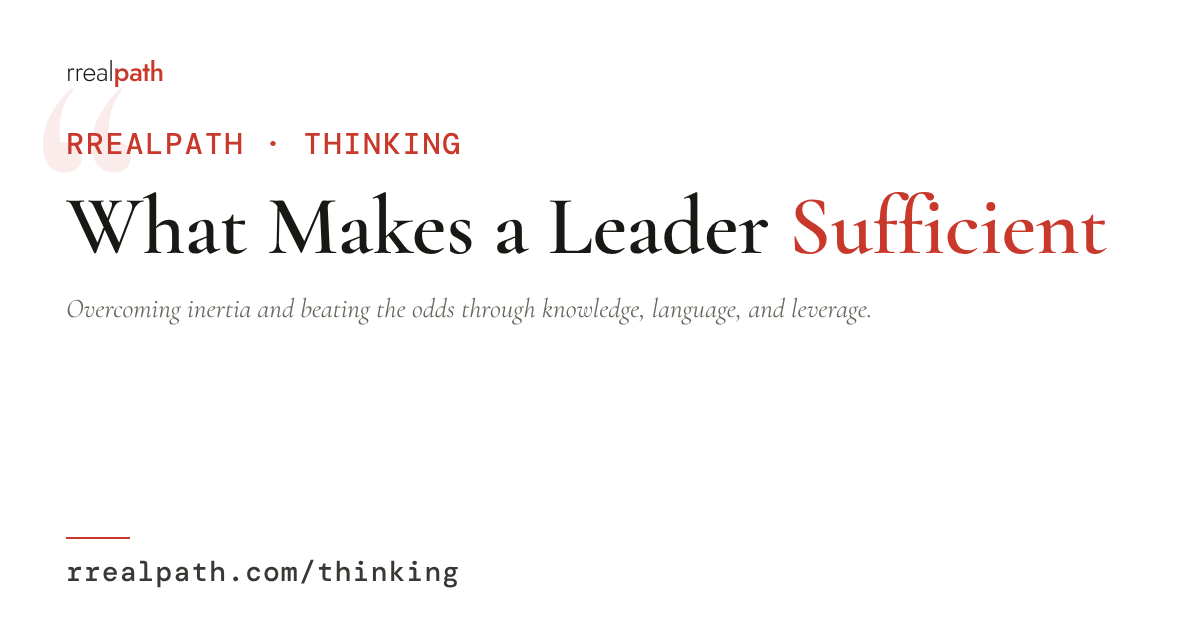
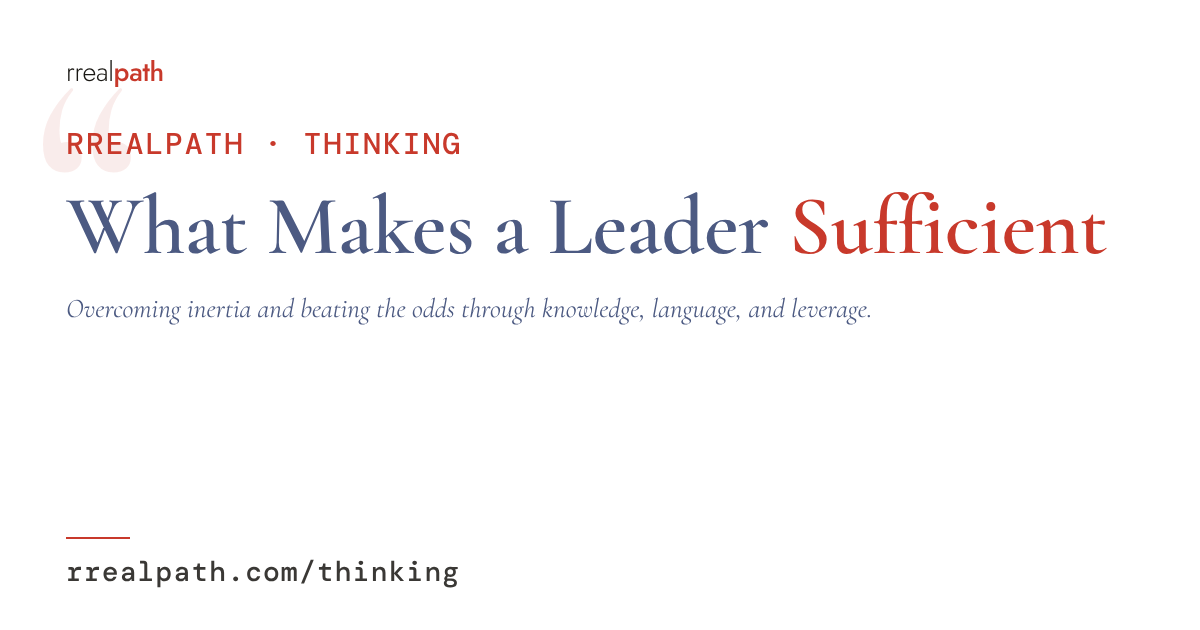
Intelligence — October 2026: article page + 5 figures + share card; Thinking row; sitemap; house bullet-list rule in style.css; 14 Steel Blue share cards (order 52)
Order 71 full-site preview. Nothing merges without Ren's OK.

diff --git a/intelligence-october-2026.html b/intelligence-october-2026.html
@@ -1,0 +1,316 @@
+<!DOCTYPE html>
+<html lang="en">
+<head>
+  <meta charset="UTF-8" />
+  <meta name="viewport" content="width=device-width, initial-scale=1.0" />
+  <title>Intelligence — October 2026 — rrealpath</title>
+  <meta name="description" content="Analysis of AI Adoption — What the headline numbers don’t reveal. Measured by how much of the work AI could do that it actually does, we are, in fact, in the Early Adopter stage." />
+  <meta name="author" content="René Anant Feddersen" />
+  <meta property="article:published_time" content="2026-10-28T09:00:00+07:00" />
+  <meta property="og:type" content="article" />
+  <meta property="og:site_name" content="rrealpath" />
+  <meta property="og:title" content="Intelligence — October 2026: Analysis of AI Adoption — What the headline numbers don’t reveal" />
+  <meta property="og:description" content="Analysis of AI Adoption — What the headline numbers don’t reveal. Measured by how much of the work AI could do that it actually does, we are, in fact, in the Early Adopter stage." />
+  <meta property="og:url" content="https://rrealpath.com/intelligence-october-2026" />
+  <meta property="og:image" content="https://rrealpath.com/images/intelligence-october-2026-og.png" />
+  <meta property="og:image:width" content="1200" />
+  <meta property="og:image:height" content="630" />
+  <meta property="og:image:alt" content="Analysis of AI Adoption — What the headline numbers don&#39;t reveal. Intelligence — October 2026, with Rogers&#39; adoption curve." />
+  <meta name="twitter:card" content="summary_large_image" />
+  <meta name="twitter:image" content="https://rrealpath.com/images/intelligence-october-2026-og.png" />
+  <meta name="twitter:title" content="Intelligence — October 2026: Analysis of AI Adoption — What the headline numbers don’t reveal" />
+  <meta name="twitter:description" content="Analysis of AI Adoption — What the headline numbers don’t reveal. Measured by how much of the work AI could do that it actually does, we are, in fact, in the Early Adopter stage." />
+  <link rel="canonical" href="https://rrealpath.com/intelligence-october-2026" />
+  <link rel="icon" href="/favicon.ico" sizes="any" />
+  <link rel="icon" href="/favicon-32.png" type="image/png" sizes="32x32" />
+  <link rel="apple-touch-icon" href="/apple-touch-icon.png" />
+  <link rel="stylesheet" href="css/style.css" />
+  <!-- Google Analytics -->
+  <script>
+    /* GA4 — production host only; ?internal=1 marks this device as own traffic (?internal=0 clears) */
+    window.dataLayer = window.dataLayer || [];
+    function gtag(){dataLayer.push(arguments);}
+    (function(){
+      var h = location.hostname;
+      if (h !== 'rrealpath.com' && h !== 'www.rrealpath.com') return;
+      var internal = false;
+      try {
+        var q = new URLSearchParams(location.search).get('internal');
+        if (q === '1') { localStorage.setItem('rr_internal', '1'); document.cookie = 'rr_internal=1; max-age=63072000; path=/; SameSite=Lax'; }
+        if (q === '0') { localStorage.removeItem('rr_internal'); document.cookie = 'rr_internal=; max-age=0; path=/; SameSite=Lax'; }
+        internal = localStorage.getItem('rr_internal') === '1' || /(?:^|; )rr_internal=1/.test(document.cookie);
+      } catch (e) { internal = /(?:^|; )rr_internal=1/.test(document.cookie); }
+      var s = document.createElement('script'); s.async = true;
+      s.src = 'https://www.googletagmanager.com/gtag/js?id=G-RN326XK8ME';
+      document.head.appendChild(s);
+      gtag('js', new Date());
+      gtag('config', 'G-RN326XK8ME', internal ? { traffic_type: 'internal' } : {});
+    })();
+  </script>
+  <style>
+    .article-wrap { max-width: var(--max-wide); padding: 5rem 3rem 6rem; }
+    .article-meta { display: flex; align-items: center; gap: 1.2rem; margin-bottom: 2rem; }
+    .article-meta-number { font-family: var(--font-mono); font-size: 0.65rem; letter-spacing: 0.15em; color: var(--red); }
+    .article-meta-sep { width: 24px; height: 0.5px; background: var(--rule); }
+    .article-meta-date { font-family: var(--font-mono); font-size: 0.65rem; letter-spacing: 0.15em; text-transform: uppercase; color: var(--ink-faint); }
+    .article-title { font-family: var(--font-serif); font-weight: 600; font-size: clamp(2.4rem, 5vw, 4.2rem); line-height: 1.06; color: var(--blue); margin-bottom: 1.2rem; max-width: 820px; }
+    .article-intro { font-family: var(--font-serif); font-size: 1.2rem; font-weight: 300; font-style: italic; color: var(--ink-muted); line-height: 1.55; max-width: 620px; margin-bottom: 2.5rem; }
+    .article-lead { max-width: 620px; margin: 0 0 3rem; padding-bottom: 3rem; border-bottom: 1px solid var(--rule); }
+    .article-lead img { width: 100%; height: auto; display: block; }
+    .article-lead-caption { display: flex; align-items: center; gap: 0.75rem; margin-top: 0.75rem; }
+    .article-lead-bar { width: 2px; height: 0.9em; background: var(--red); flex-shrink: 0; }
+    .article-lead-name { font-family: var(--font-serif); font-style: italic; font-size: 0.9rem; color: var(--ink-muted); }
+    .article-lead-credit { font-family: var(--font-mono); font-size: 0.6rem; letter-spacing: 0.1em; text-transform: uppercase; color: var(--ink-faint); }
+    .article-body { max-width: 620px; }
+    .article-body p { font-size: 1rem; color: var(--ink-mid); line-height: 1.9; margin-bottom: 1.4rem; }
+    .article-body h2 { font-family: var(--font-serif); font-size: 1.6rem; font-weight: 600; color: var(--blue); margin-top: 3rem; margin-bottom: 1rem; line-height: 1.2; }
+    .article-rule { border: none; border-top: 1px solid var(--rule); margin: 3rem 0; }
+    .article-crosslink { font-family: var(--font-mono); font-size: 0.7rem; letter-spacing: 0.1em; text-transform: uppercase; margin: 1.5rem 0 0; }
+    .article-crosslink a { color: var(--red); text-decoration: none; }
+    .article-crosslink a:hover { color: var(--ink); }
+    .article-back { font-family: var(--font-mono); font-size: 0.65rem; letter-spacing: 0.15em; text-transform: uppercase; color: var(--ink-faint); text-decoration: none; display: inline-flex; align-items: center; gap: 0.5rem; margin-bottom: 3rem; transition: color 0.2s; }
+    .article-back:hover { color: var(--ink); }
+    /* in-body figures */
+    .article-figure { max-width: 620px; margin: 2.5rem 0; }
+    .article-figure img { width: 100%; height: auto; display: block; }
+    .article-point strong { display: block; font-weight: 600; color: var(--ink); margin-bottom: 0.2rem; }
+    .article-cta { max-width: 620px; margin-top: 3rem; padding-top: 2rem; border-top: 1px solid var(--rule); }
+    .article-cta p { font-family: var(--font-serif); font-weight: 300; font-style: italic; font-size: 1.25rem; color: var(--ink-mid); line-height: 1.5; margin: 0 0 1.4rem; }
+    .article-share { max-width: 620px; margin-top: 3rem; padding-top: 2rem; border-top: 1px solid var(--rule); display: flex; align-items: center; gap: 1.5rem; flex-wrap: wrap; }
+    .article-share-label { font-family: var(--font-mono); font-size: 0.65rem; letter-spacing: 0.15em; text-transform: uppercase; color: var(--ink-faint); }
+    .article-share-links { display: flex; align-items: center; gap: 1.2rem; }
+    .article-share-links a, .article-share-copy { font-family: var(--font-mono); font-size: 0.65rem; letter-spacing: 0.12em; text-transform: uppercase; color: var(--ink-muted); text-decoration: none; background: none; border: none; cursor: pointer; padding: 0; transition: color 0.2s; }
+    .article-share-links a:hover, .article-share-copy:hover { color: var(--ink); }
+    .article-share-sep { color: var(--rule); font-size: 0.7rem; }
+    @media (max-width: 768px) { .article-wrap { padding: 4rem 1.5rem 4rem; } }
+  </style>
+</head>
+<body>
+
+<nav>
+  <a href="/" class="nav-logo">rreal<span>path</span></a>
+  <ul class="nav-links">
+    <li><a href="/thinking">Thinking</a></li>
+    <li><a href="/resume">Resume</a></li>
+    <li><a href="/coaching">Coaching</a></li>
+    <li><a href="/connect">Connect</a></li>
+  </ul>
+  <button class="nav-toggle" id="nav-toggle" aria-label="Open menu" aria-expanded="false">
+    <span></span><span></span><span></span>
+  </button>
+</nav>
+
+<div class="nav-drawer" id="nav-drawer">
+  <a href="/thinking">Thinking</a>
+  <a href="/resume">Resume</a>
+  <a href="/coaching">Coaching</a>
+  <a href="/connect">Connect</a>
+</div>
+
+<main class="page">
+  <div class="article-wrap">
+
+    <a href="/thinking" class="article-back">&larr; Thinking</a>
+
+    <div class="article-meta">
+      <span class="article-meta-number">Intelligence</span>
+      <div class="article-meta-sep"></div>
+      <span class="article-meta-date">28 October 2026</span>
+    </div>
+
+    <h1 class="article-title">Intelligence &mdash; October 2026</h1>
+    <p class="article-intro">Analysis of AI Adoption &mdash; What the headline numbers don&rsquo;t reveal</p>
+
+    <div class="article-body">
+
+      <p>What has changed since June? The models are improving. The way people are adopting AI is continuing to gain in form and clarity.</p>
+
+      <p>The <a href="/article-06">June article</a> with a similar title was initially written as a standalone. The decision was then made to conduct ongoing research and to share insights on a periodic basis on AI adoption: to track adoption through a structured and ongoing narrative, and to pursue an evidence-based understanding of its real value.</p>
+
+      <p>Adoption data tells us who is using AI, how frequently, and what for. To give real context to this data, we must delve into the what for; only through understanding the business value of AI’s use cases can we assess whether adoption has measurable value.</p>
+
+      <p>If we count AI adoption as anyone who has ever used AI, we may be misrepresenting the facts. Using an AI model in a work-related way once or twice a week is different from using it daily for a substantial amount of time.</p>
+
+      <p>Understanding time savings and benefits (speed, quality, and costs of outcomes) of AI use cases is also key to grasping the true value of adoption; applications that are considered successful must deliver substantial and lasting benefits to be sustainable.</p>
+
+      <p>The focus of this article is to demonstrate the reality of adoption. Contrary to the widely held understanding that we are in the Late Majority stage (&gt;50% adoption), measured by how much of the work AI could do that it actually does, we are, in fact, in the Early Adopter stage (&lt;16% adoption).</p>
+
+      <figure class="article-lead">
+        <img src="images/intelligence-october-2026-01.png" width="1400" height="1120" alt="Bell curve of Rogers’ five adopter groups — Innovators 2.5%, Early Adopters 13.5%, Early Majority 34%, Late Majority 34%, Laggards 16% — Innovators and Early Adopters shaded red, the other three groups Steel Blue." />
+        <figcaption class="article-lead-caption"><div class="article-lead-bar"></div><span class="article-lead-name">Rogers’ adoption curve</span><span class="article-lead-credit">rrealpath original graphic</span></figcaption>
+      </figure>
+
+      <h2>#1 What is emerging</h2>
+
+      <p>In the June article, we made the following opening observation about AI:</p>
+
+      <p>“The message the name sends is that human and artificial intelligence are interchangeable on a one-for-one basis. A machine is traditionally defined and named by the function it performs; an LLM mimics the sphere of activity that is based in language, and interacts through language, creating the appearance of intelligence.”</p>
+
+      <p>We then concluded with the following statement:</p>
+
+      <p>“The present opportunity is the possibility to harness a machine that augments a vast array of capabilities, and that has the flexibility of being many things to many people, of increasing our analytical and productive capabilities, of refocusing our limited resources –time, attention and energy–, and of tackling projects and opportunities that were previously out of reach.”</p>
+
+      <p>If we give credence to these two statements — both statements are grounded in fact — we can further state the following: The gap between how AI is named and how it functions creates a fundamental paradox: we discuss AI through the lens of substitution, but we experience it through the lens of augmentation.</p>
+
+      <p>Therefore:</p>
+
+      <p>The way to gauge AI’s value is to start using it, and to experience augmentation in the context of one’s own work. There are no patterns or rules about how this is achieved, and there is no expert third party that will do this for us. Gathering examples through our own experience and learning from the experiences of others is the measure.</p>
+
+      <p>What is becoming overwhelmingly clear is that AI’s value is in being that flexible, widely informed resource that amplifies human focus and effort; its core functional attribute is the flexible conversational interface that moulds structure and meaning out of any prompt, translating human intent into analytical leverage.</p>
+
+      <p>AI adoption means gaining analytical leverage:</p>
+
+      <ol>
+        <li>Improving results of analysis by expanding reach (accessing more data and knowledge that inform the decisions we need to make)</li>
+        <li>Freeing up time for analysis by drastically reducing data collection, preparation and processing time</li>
+        <li>Freeing up time for analysis by accelerating the completion of administrative tasks</li>
+        <li>Writing and maintaining code and handling complex engineering tasks</li>
+        <li>Creation and experimentation in the areas of art, literature, history, education, science, sociology, health, psychology, and more</li>
+        <li>Faster roadmaps to improving decisions through automation</li>
+        <li>Faster roadmaps to automation of business processes</li>
+      </ol>
+
+      <p>All of the above represent real adoption scenarios. Anyone in possession of a computer and internet connection can try to use AI for any of the above.</p>
+
+      <h2>#2 The numbers</h2>
+
+      <p>Everett Rogers’ ‘diffusion of innovations curve’ (<em>Diffusion of Innovations</em>, 1962; 5th edition 2003) is based on “a decision to make full use of an innovation as the best course of action available.” Trying an idea is one step on the way, not adoption itself.</p>
+
+      <p>Rogers further defined diffusion: “the process in which an innovation is communicated through certain channels over time among the members of a social system.” A new idea spreads through four elements: the innovation itself, the channels that carry word of it, time, and the social system it moves through.</p>
+
+      <p>The present level of adoption, as reflected by anyone whose work or life has touchpoints with AI (for any marginal amount of time), including accessing AI through platform-embedded features (i.e. Gemini in Google Workspace, Copilot in Microsoft), is shown in the next graph.</p>
+
+      <figure class="article-figure">
+        <img src="images/intelligence-october-2026-02.png" width="1400" height="1468" alt="Line chart titled “By the accepted measure, AI is in the Late Majority stage”, 2023–2026, US. US adults aged 18–64 who have used generative AI: 45% (Aug 2024) to 62% (May 2026). US employees using AI at work a few times a year or more: 21% (May 2023) to 52% (May 2026). Both lines cross a blue dashed 50% line (Rogers’ Late Majority above, Early Majority below); a red dashed 16% line marks Innovators and Early Adopters below it." loading="lazy" />
+        <figcaption class="article-lead-caption"><div class="article-lead-bar"></div><span class="article-lead-name">US only. More than half of US adults aged 18–64 (St. Louis Fed) and of US employees (Gallup) have used AI</span><span class="article-lead-credit">rrealpath original graphic</span></figcaption>
+      </figure>
+
+      <p>To take Rogers’ analogy further, we need to understand the types of jobs that can make full use of AI as the best course of available action. Research that is focused on substitution (versus augmentation) is defining these jobs as AI-exposed. The next table shows the percentage of the US workforce for which AI’s assumed present &amp; future capabilities are a complement (augmentation) or match (substitution).</p>
+
+      <p><em>Agents, robots, and us</em> (McKinsey Global Institute, Nov 2025) estimates how much of today’s paid US work hours technology already demonstrated could, in theory, take over, by breaking about 800 occupations into their tasks. “Agents” means any software that automates desk work, AI included, and “robots” means machines that do physical work. In its cautious scenario, agents could do 44% of US work hours and robots 13%; the other 43% only people can do. McKinsey stresses that this is technical potential, “not a forecast of job losses”. It assumes about 27% of hours will be automated by 2030, and McKinsey sells AI consulting, so it has an interest in these findings.</p>
+
+      <figure class="article-figure">
+        <img src="images/intelligence-october-2026-03.png" width="1400" height="1278" alt="Table: share of all US work hours machines could do. Agents (software and AI doing desk work) 44%, robots 13%, not automatable 43%. Source: McKinsey Global Institute, Agents, robots, and us, Nov 2025." loading="lazy" />
+        <figcaption class="article-lead-caption"><div class="article-lead-bar"></div><span class="article-lead-name">McKinsey’s estimate of how much work US agents, robots and humans can do in theory</span><span class="article-lead-credit">rrealpath original graphic</span></figcaption>
+      </figure>
+
+      <p>The following 2 sources further clarify our understanding of the adoption picture. They have been chosen from among many similar examples:</p>
+
+      <p><strong>United States: St. Louis Fed survey, 2025–2026</strong> (quarterly survey of US adults; its task data comes from nearly 14,000 workers)</p>
+
+      <ul>
+        <li>In Q2 2026, 39% of employed adults aged 18–64 used AI for work in the past week. By Q3 2026, AI touched only 5.3% of all US work hours, and the time saved worked out to 2.1%</li>
+        <li>Fewer than 3% of tasks are done with AI by over 50% of the people doing them</li>
+        <li>An earlier round of the same survey (November 2024) found that users save 5.4% of their own hours, which the authors put at about a 1.1% productivity gain for the whole workforce</li>
+      </ul>
+
+      <p><strong>Firms in seven countries:</strong> <em>Firm Data on AI</em> (Yotzov, Bloom and others, 2026, revised October) — nearly 9,000 senior executives were surveyed</p>
+
+      <ul>
+        <li>78% of their firms use AI</li>
+        <li>80% of executives use it regularly, but on average for only 2.1 hours a week</li>
+        <li>They say AI added about 0.2% a year to productivity growth over the past three years, and they expect about 0.6% a year over the next 3 years</li>
+      </ul>
+
+      <p>Surveys of workers in general and senior executives show marginal adoption. The percentages of people and firms show a substantial number, but the actual individual usage tells another story.</p>
+
+      <p>The next table attempts to define the total addressable market size, which is the share of total productivity AI can augment or substitute.</p>
+
+      <figure class="article-figure">
+        <img src="images/intelligence-october-2026-04.png" width="1400" height="4482" alt="Table, US, our estimate, four tiers. Highly exposed: 22.9% of jobs, 84% of hours AI could assist, 19.3% of total working hours. Contested: 22.8%, 56%, 12.8%. Low exposure: 41.5%, 17%, 7.0%. Not tiered: 12.7%, 39%, 5.0%. Total: 100% of jobs, 44.0% of working hours." loading="lazy" />
+        <figcaption class="article-lead-caption"><div class="article-lead-bar"></div><span class="article-lead-name">rrealpath estimate of which US jobs are exposed to AI and how much of US working hours they hold</span><span class="article-lead-credit">rrealpath original graphic</span></figcaption>
+      </figure>
+
+      <p>Data from the following 3 surveys completes the picture:</p>
+
+      <ul>
+        <li>Share of all US work hours assisted by AI: 5.3% (Q3 2026), St. Louis Fed, 20 October 2026</li>
+        <li>52% of US employees use AI at work at least a few times a year, 30% a few times a week or more, and 15% daily, Gallup, May 2026</li>
+        <li>49% of US adults have used an AI chatbot, and 24% use one daily, including 4% “almost constantly”, Pew, June 2026</li>
+      </ul>
+
+      <p>AI presently assists 5.3% of all US work hours. The McKinsey Global Institute estimates that software and AI already demonstrated could, in theory, take over 44% of US work hours; measured against that ceiling, AI is presently used in about 12% of the work it could do.</p>
+
+      <figure class="article-figure">
+        <img src="images/intelligence-october-2026-05.png" width="1400" height="1830" alt="Line chart titled “rrealpath analysis: AI is in the Early Adopter stage”, US, Q4 2024 to Q3 2026: work hours assisted by generative AI as a share of the 44% of hours AI could do. 9% in Q4 2024, a high of 14% in Q2 2026, 12% in Q3 2026. A red dashed line at 16% separates Early Adopters below from Early Majority above; a second at 2.5% marks Innovators below it." loading="lazy" />
+        <figcaption class="article-lead-caption"><div class="article-lead-bar"></div><span class="article-lead-name">US only. Measured against the 44% of work AI could do, AI assisted about 12% of it in Q3 2026</span><span class="article-lead-credit">rrealpath original graphic</span></figcaption>
+      </figure>
+
+      <p>On Rogers’ diffusion curve, this macro perspective puts us clearly within the first 16% of adoption, which is the stage of Innovators and Early Adopters. Since the applications are diverse and far-reaching, and while the Early and Late Majority are already adopting AI, the balanced perspective considers the aggregate — and the average — of the people adopting AI and the level at which they are adopting it, relative to its full potential.</p>
+
+      <h2>#3 Why adoption progresses slowly</h2>
+
+      <p>Why does adoption take time, and why do predictions create an environment of haste around the new opportunities? Innovators leading the development of language models continue to break new ground in the lab, and new advances always signal towards a rate of progress. The structures, systems and habits of the global economy don’t factor into the public relations message, which focuses purely on the technology’s maximum potential.</p>
+
+      <p>Until fairly recently, the biggest constraints were around the context window. While a basic task could be completed, one that required multiple steps or disciplines would eventually fail. Outputs that were confirmed earlier on in the logic sequence were simply forgotten, and the path to the final product was stalled or corrupted. A further constraint, still prevalent, is hallucination.</p>
+
+      <p>Loss of context or hallucination impacts even the simplest tasks. As use cases and projects become more ambitious, these issues begin to weigh in more heavily, and the collective effect of small fallouts creates greater obstructions, particularly for things that AI should automate and complete reliably and predictably.</p>
+
+      <p>In this way, the human never leaves the loop. AI may do the job, but because the result is unreliable, the human must continue in the role of the controller, always verifying the outputs. And this puts a massive constraint on a technology with arguably vast potential: if a human needs to be able to verify output, he must first understand it, and if he is to understand it, it must be presented to him in a form he is able to understand and reply to.</p>
+
+      <h2>#4 The current adoption frontier</h2>
+
+      <p>The brightest minds in AI today (the Innovators) are working on harnesses, and while the word harness has been in use for some time, it has only recently entered non-technical language. The simple definition of a harness is the software infrastructure and runtime scaffolding wrapped around an LLM that turns a passive text-in/text-out model into an active, working agent. This includes connecting LLMs to external environments they need (APIs, terminals, code execution environments, file systems), memory and state management, context engineering, verification &amp; feedback loops, and guardrails &amp; sandboxing.</p>
+
+      <p>The less technical minds who are building solutions with AI (the Early Adopters) are working on basic agentic solutions. While these solutions include some aspects of harnesses, they are designed to augment the capabilities and workload of one individual, versus developing solutions that need to run predictably in commercial environments. For the Early Adopter, effort and diligence incrementally improve solutions that would otherwise be defeated by loss of context and hallucinations, and progress is characterised by setbacks.</p>
+
+      <p>Below is an example of an improvised agentic structure, developed by an Early Adopter for publishing researched articles. Each function presents distinct challenges. Any individual wishing to publish researched articles begins from a different vantage point and with a different set of native skills. The strength of LLMs is their versatility in developing the desired utility from a unique starting point, progressing in learned and practised stages to a unique end point.</p>
+
+      <ul>
+        <li><strong>Chief of Staff</strong> sees the whole solution. Briefs every agent, runs all releases and lets nothing go live until it has been validated against a list of requirements.</li>
+        <li><strong>Editorial Agent</strong> is where ideas become text. Provides copy-editing to standards the writer defines, and presents corrections and refinements to the writer one at a time.</li>
+        <li><strong>Website Agent</strong> puts every piece onto a website. Every change goes through a preview process, and is checked after it goes live.</li>
+        <li><strong>Marketing &amp; Distribution Agent</strong> brings the right readers to the published content on all channels. Every channel is measured for reach and engagement.</li>
+        <li><strong>Research Agent</strong> gives the writer insights and evidence to validate arguments: sourced and dated, with strong arguments on both sides of the argument, and set in history.</li>
+        <li><strong>Visual &amp; Image Agent</strong> creates, finds and files images, produces captions with source information for approval; develops and maintains templates for visual material based on the writer’s brand identity. Everything is cleared for rights, and everything is verified for legibility on any screen.</li>
+      </ul>
+
+      <p>The above example identifies both the opportunity and the challenge of AI adoption. Less than a year ago this agentic solution would have been theoretically possible, but only achievable to someone with a level of technical skill; today it is achievable for most, but only the Early Adopters are putting the capabilities through their paces to develop desired solutions.</p>
+
+      <h2>#5 The signal and the noise</h2>
+
+      <p>What Early Adopters are demonstrating is AI’s value as a conversational interface, translating prompts into analytical leverage and accelerating the iterative rate of progress. Its power lies in its ability to serve a broad audience by bringing together start and end points that were previously termed a bridge too far.</p>
+
+      <p>What the noise fails to communicate is that the baseline advantage is augmentation. Anyone has access to this leverage and can improve something through the use of LLMs. What it further fails to communicate is that expert domain experience is necessary; an LLM’s leverage may make a project more forgiving to a novice, but complex solutions require seasoned human architects.</p>
+
+      <p>AI is not the answer, it is the tool that enables a human to work on his answer. The difficulty in discussing AI adoption stems from using the language of identity to describe a tool of leverage. Until our public and organisational rhetoric shifts from what AI resembles (human intelligence) to what AI provides (leverage), people and institutions will continue to struggle with integrating it effectively.</p>
+
+    </div>
+
+    <div class="article-cta">
+      <p>If something here resonated with you and you're interested to have a conversation about coaching, I'm happy to talk &mdash; no agenda.</p>
+      <a href="/connect?utm_content=article-end#start" class="home-cta">Start a conversation <span class="arr" aria-hidden="true">&rarr;</span></a>
+    </div>
+
+    <div class="article-share">
+      <span class="article-share-invite">Please share the knowledge.</span>
+      <span class="article-share-label">Share</span>
+      <div class="article-share-links">
+        <a href="https://www.linkedin.com/sharing/share-offsite/?url=https%3A%2F%2Frrealpath.com%2Fintelligence-october-2026" target="_blank" rel="noopener">LinkedIn</a>
+        <span class="article-share-sep">&middot;</span>
+        <a href="https://x.com/intent/tweet?url=https%3A%2F%2Frrealpath.com%2Fintelligence-october-2026&amp;text=Intelligence%20%E2%80%94%20October%202026" target="_blank" rel="noopener">X</a>
+        <span class="article-share-sep">&middot;</span>
+        <button class="article-share-copy" onclick="copyLink(this)">Copy link</button>
+      </div>
+    </div>
+
+  </div>
+</main>
+
+<footer>
+  <div class="footer-mark">rreal<span>path</span></div>
+  <div class="footer-copy">&copy; 2026 rrealpath. All rights reserved.</div>
+</footer>
+
+<script src="js/main.js"></script>
+<script>
+  function copyLink(btn) {
+    navigator.clipboard.writeText(window.location.href).then(() => {
+      const original = btn.textContent;
+      btn.textContent = 'Copied';
+      setTimeout(() => { btn.textContent = original; }, 2000);
+    });
+  }
+</script>
+</body>
+</html>

diff --git a/thinking.html b/thinking.html
@@ -72,6 +72,7 @@
 
     <div class="fade-in">
 
+      <a href="/intelligence-october-2026" style="display: block; padding: 2rem 0; border-top: 1px solid var(--rule); border-bottom: 1px solid var(--rule); text-decoration: none; color: inherit;"><div style="display: flex; align-items: center; gap: 1.2rem; margin-bottom: 0.5rem;"><span style="font-family: var(--font-mono); font-size: 0.65rem; letter-spacing: 0.15em; text-transform: uppercase; color: var(--ink-faint); white-space: nowrap;">28 October 2026</span><span style="font-family: var(--font-mono); font-size: 0.65rem; letter-spacing: 0.12em; color: var(--red);">Intelligence</span></div><div style="font-family: var(--font-serif); font-size: 1.5rem; font-weight: 500; color: #4C5A82; line-height: 1.15; margin-bottom: 0.5rem; border-bottom: 0.5px solid var(--rule); padding-bottom: 0.4rem; display: inline-block;">Intelligence &mdash; October 2026</div><div style="font-size: 0.94rem; color: var(--ink-muted); line-height: 1.7; margin-top: 0.5rem;">Analysis of AI Adoption &mdash; What the headline numbers don&rsquo;t reveal</div><div style="font-size: 0.8rem; color: var(--ink-mid); line-height: 1.75; margin-top: 0.7rem;">Substitution or augmentation<span style="display:inline-block;width:2px;height:0.85em;background:var(--red);margin:0 0.6em;vertical-align:-0.12em;"></span>Past 50%, or under 16%<span style="display:inline-block;width:2px;height:0.85em;background:var(--red);margin:0 0.6em;vertical-align:-0.12em;"></span>Why the human never leaves the loop<span style="display:inline-block;width:2px;height:0.85em;background:var(--red);margin:0 0.6em;vertical-align:-0.12em;"></span>Harnesses and the Early Adopters<span style="display:inline-block;width:2px;height:0.85em;background:var(--red);margin:0 0.6em;vertical-align:-0.12em;"></span>AI as a tool of leverage</div></a>
       <a href="/article-08-part-3" style="display: block; padding: 2rem 0; border-top: 1px solid var(--rule); border-bottom: 1px solid var(--rule); text-decoration: none; color: inherit;"><div style="display: flex; align-items: center; gap: 1.2rem; margin-bottom: 0.5rem;"><span style="font-family: var(--font-mono); font-size: 0.65rem; letter-spacing: 0.15em; text-transform: uppercase; color: var(--ink-faint); white-space: nowrap;">13 October 2026</span><span style="font-family: var(--font-mono); font-size: 0.65rem; letter-spacing: 0.12em; color: var(--red);">No. 08 &middot; Part III</span></div><div style="font-family: var(--font-serif); font-size: 1.5rem; font-weight: 500; color: #4C5A82; line-height: 1.15; margin-bottom: 0.5rem; border-bottom: 0.5px solid var(--rule); padding-bottom: 0.4rem; display: inline-block;">The Origins of Coaching</div><div style="font-size: 0.94rem; color: var(--ink-muted); line-height: 1.7; margin-top: 0.5rem;">Where coaching goes next. Part 3 of a three-part history.</div><div style="font-size: 0.8rem; color: var(--ink-mid); line-height: 1.75; margin-top: 0.7rem;">Job insecurity is the baseline<span style="display:inline-block;width:2px;height:0.85em;background:var(--red);margin:0 0.6em;vertical-align:-0.12em;"></span>Knowledge is abundant and free<span style="display:inline-block;width:2px;height:0.85em;background:var(--red);margin:0 0.6em;vertical-align:-0.12em;"></span>Trust built on demonstrated work<span style="display:inline-block;width:2px;height:0.85em;background:var(--red);margin:0 0.6em;vertical-align:-0.12em;"></span>AI as the first stop<span style="display:inline-block;width:2px;height:0.85em;background:var(--red);margin:0 0.6em;vertical-align:-0.12em;"></span>The commoditised middle of the market<span style="display:inline-block;width:2px;height:0.85em;background:var(--red);margin:0 0.6em;vertical-align:-0.12em;"></span>What still needs a trusted mind</div></a>
       <a href="/article-08-part-2" style="display: block; padding: 2rem 0; border-top: 1px solid var(--rule); border-bottom: 1px solid var(--rule); text-decoration: none; color: inherit;"><div style="display: flex; align-items: center; gap: 1.2rem; margin-bottom: 0.5rem;"><span style="font-family: var(--font-mono); font-size: 0.65rem; letter-spacing: 0.15em; text-transform: uppercase; color: var(--ink-faint); white-space: nowrap;">6 October 2026</span><span style="font-family: var(--font-mono); font-size: 0.65rem; letter-spacing: 0.12em; color: var(--red);">No. 08 &middot; Part II</span></div><div style="font-family: var(--font-serif); font-size: 1.5rem; font-weight: 500; color: #4C5A82; line-height: 1.15; margin-bottom: 0.5rem; border-bottom: 0.5px solid var(--rule); padding-bottom: 0.4rem; display: inline-block;">The Origins of Coaching</div><div style="font-size: 0.94rem; color: var(--ink-muted); line-height: 1.7; margin-top: 0.5rem;">How coaching entered the mainstream. Part 2 of a three-part history.</div><div style="font-size: 0.8rem; color: var(--ink-mid); line-height: 1.75; margin-top: 0.7rem;">How coaching slowly achieved critical mass<span style="display:inline-block;width:2px;height:0.85em;background:var(--red);margin:0 0.6em;vertical-align:-0.12em;"></span>Coaching is a credence good<span style="display:inline-block;width:2px;height:0.85em;background:var(--red);margin:0 0.6em;vertical-align:-0.12em;"></span>Growth through supply, legitimacy and proof<span style="display:inline-block;width:2px;height:0.85em;background:var(--red);margin:0 0.6em;vertical-align:-0.12em;"></span>The birth of coaching schools and certification bodies<span style="display:inline-block;width:2px;height:0.85em;background:var(--red);margin:0 0.6em;vertical-align:-0.12em;"></span>Being coached shifts from stigma to status<span style="display:inline-block;width:2px;height:0.85em;background:var(--red);margin:0 0.6em;vertical-align:-0.12em;"></span>Today's new scarcity</div></a>
       <a href="/article-08-part-1" style="display: block; padding: 2rem 0; border-top: 1px solid var(--rule); border-bottom: 1px solid var(--rule); text-decoration: none; color: inherit;"><div style="display: flex; align-items: center; gap: 1.2rem; margin-bottom: 0.5rem;"><span style="font-family: var(--font-mono); font-size: 0.65rem; letter-spacing: 0.15em; text-transform: uppercase; color: var(--ink-faint); white-space: nowrap;">28 September 2026</span><span style="font-family: var(--font-mono); font-size: 0.65rem; letter-spacing: 0.12em; color: var(--red);">No. 08 &middot; Part I</span></div><div style="font-family: var(--font-serif); font-size: 1.5rem; font-weight: 500; color: #4C5A82; line-height: 1.15; margin-bottom: 0.5rem; border-bottom: 0.5px solid var(--rule); padding-bottom: 0.4rem; display: inline-block;">The Origins of Coaching</div><div style="font-size: 0.94rem; color: var(--ink-muted); line-height: 1.7; margin-top: 0.5rem;">How coaching was invented. Part 1 of a three-part history.</div><div style="font-size: 0.8rem; color: var(--ink-mid); line-height: 1.75; margin-top: 0.7rem;">Before there was a name<span style="display:inline-block;width:2px;height:0.85em;background:var(--red);margin:0 0.6em;vertical-align:-0.12em;"></span>The birth of the idea<span style="display:inline-block;width:2px;height:0.85em;background:var(--red);margin:0 0.6em;vertical-align:-0.12em;"></span>Where coaching originated<span style="display:inline-block;width:2px;height:0.85em;background:var(--red);margin:0 0.6em;vertical-align:-0.12em;"></span>The beginnings of the profession</div></a> <a href="/article-07-part-3" style="display: block; padding: 2rem 0; border-top: 1px solid var(--rule); border-bottom: 1px solid var(--rule); text-decoration: none; color: inherit;"><div style="display: flex; align-items: center; gap: 1.2rem; margin-bottom: 0.5rem;"><span style="font-family: var(--font-mono); font-size: 0.65rem; letter-spacing: 0.15em; text-transform: uppercase; color: var(--ink-faint); white-space: nowrap;">22 September 2026</span><span style="font-family: var(--font-mono); font-size: 0.65rem; letter-spacing: 0.12em; color: var(--red);">No. 07 &middot; Part III</span></div><div style="font-family: var(--font-serif); font-size: 1.5rem; font-weight: 500; color: #4C5A82; line-height: 1.15; margin-bottom: 0.5rem; border-bottom: 0.5px solid var(--rule); padding-bottom: 0.4rem; display: inline-block;">The Cross-Cultural Laboratory</div><div style="font-size: 0.94rem; color: var(--ink-muted); line-height: 1.7; margin-top: 0.5rem;">Why the rulebook is just the starting point. Part III of a three-part series.</div><div style="font-size: 0.8rem; color: var(--ink-mid); line-height: 1.75; margin-top: 0.7rem;">The past 30 years have seen improvements<span style="display:inline-block;width:2px;height:0.85em;background:var(--red);margin:0 0.6em;vertical-align:-0.12em;"></span>People still nod in agreement when they don't understand<span style="display:inline-block;width:2px;height:0.85em;background:var(--red);margin:0 0.6em;vertical-align:-0.12em;"></span>Where Thailand stands out<span style="display:inline-block;width:2px;height:0.85em;background:var(--red);margin:0 0.6em;vertical-align:-0.12em;"></span>The embodiment of compromise<span style="display:inline-block;width:2px;height:0.85em;background:var(--red);margin:0 0.6em;vertical-align:-0.12em;"></span>A deep and lasting sense of gratitude<span style="display:inline-block;width:2px;height:0.85em;background:var(--red);margin:0 0.6em;vertical-align:-0.12em;"></span>Inherently tolerant<span style="display:inline-block;width:2px;height:0.85em;background:var(--red);margin:0 0.6em;vertical-align:-0.12em;"></span>Humility in abundance<span style="display:inline-block;width:2px;height:0.85em;background:var(--red);margin:0 0.6em;vertical-align:-0.12em;"></span>A country that has never been colonised<span style="display:inline-block;width:2px;height:0.85em;background:var(--red);margin:0 0.6em;vertical-align:-0.12em;"></span>Two paths: do-it-yourself and apply-the-format<span style="display:inline-block;width:2px;height:0.85em;background:var(--red);margin:0 0.6em;vertical-align:-0.12em;"></span>Patience in the face of cultural exclusivity</div></a>        <a href="/article-07-part-2" style="display: block; padding: 2rem 0; border-top: 1px solid var(--rule); border-bottom: 1px solid var(--rule); text-decoration: none; color: inherit;"><div style="display: flex; align-items: center; gap: 1.2rem; margin-bottom: 0.5rem;"><span style="font-family: var(--font-mono); font-size: 0.65rem; letter-spacing: 0.15em; text-transform: uppercase; color: var(--ink-faint); white-space: nowrap;">14 September 2026</span><span style="font-family: var(--font-mono); font-size: 0.65rem; letter-spacing: 0.12em; color: var(--red);">No. 07 &middot; Part II</span></div><div style="font-family: var(--font-serif); font-size: 1.5rem; font-weight: 500; color: #4C5A82; line-height: 1.15; margin-bottom: 0.5rem; border-bottom: 0.5px solid var(--rule); padding-bottom: 0.4rem; display: inline-block;">The Cross-Cultural Laboratory</div><div style="font-size: 0.94rem; color: var(--ink-muted); line-height: 1.7; margin-top: 0.5rem;">Why the rulebook is just the starting point. Part II of a three-part series.</div><div style="font-size: 0.8rem; color: var(--ink-mid); line-height: 1.75; margin-top: 0.7rem;">The value of social-science research<span style="display:inline-block;width:2px;height:0.85em;background:var(--red);margin:0 0.6em;vertical-align:-0.12em;"></span>The challenge of a neutral perspective<span style="display:inline-block;width:2px;height:0.85em;background:var(--red);margin:0 0.6em;vertical-align:-0.12em;"></span>The challenge of a mutually relevant perspective<span style="display:inline-block;width:2px;height:0.85em;background:var(--red);margin:0 0.6em;vertical-align:-0.12em;"></span>Going beyond the forms, the etiquettes, the do's and the don'ts<span style="display:inline-block;width:2px;height:0.85em;background:var(--red);margin:0 0.6em;vertical-align:-0.12em;"></span>The cross-cultural journey of the individual<span style="display:inline-block;width:2px;height:0.85em;background:var(--red);margin:0 0.6em;vertical-align:-0.12em;"></span>Leaving Thailand<span style="display:inline-block;width:2px;height:0.85em;background:var(--red);margin:0 0.6em;vertical-align:-0.12em;"></span>Returning to Thailand<span style="display:inline-block;width:2px;height:0.85em;background:var(--red);margin:0 0.6em;vertical-align:-0.12em;"></span>Early experiences running a company<span style="display:inline-block;width:2px;height:0.85em;background:var(--red);margin:0 0.6em;vertical-align:-0.12em;"></span>What growing up in Thailand did not teach me</div></a>        <a href="/article-07-part-1" style="display: block; padding: 2rem 0; border-top: 1px solid var(--rule); border-bottom: 1px solid var(--rule); text-decoration: none; color: inherit;"><div style="display: flex; align-items: center; gap: 1.2rem; margin-bottom: 0.5rem;"><span style="font-family: var(--font-mono); font-size: 0.65rem; letter-spacing: 0.15em; text-transform: uppercase; color: var(--ink-faint); white-space: nowrap;">8 September 2026</span><span style="font-family: var(--font-mono); font-size: 0.65rem; letter-spacing: 0.12em; color: var(--red);">No. 07 &middot; Part I</span></div><div style="font-family: var(--font-serif); font-size: 1.5rem; font-weight: 500; color: #4C5A82; line-height: 1.15; margin-bottom: 0.5rem; border-bottom: 0.5px solid var(--rule); padding-bottom: 0.4rem; display: inline-block;">The Cross-Cultural Laboratory</div><div style="font-size: 0.94rem; color: var(--ink-muted); line-height: 1.7; margin-top: 0.5rem;">Why the rulebook is just the starting point. Part I of a three-part series.</div><div style="font-size: 0.8rem; color: var(--ink-mid); line-height: 1.75; margin-top: 0.7rem;">Cross-cultural experiences from my own life<span style="display:inline-block;width:2px;height:0.85em;background:var(--red);margin:0 0.6em;vertical-align:-0.12em;"></span>The forms, the etiquettes, the do's and the don'ts<span style="display:inline-block;width:2px;height:0.85em;background:var(--red);margin:0 0.6em;vertical-align:-0.12em;"></span>The mainstream path to cross-cultural success<span style="display:inline-block;width:2px;height:0.85em;background:var(--red);margin:0 0.6em;vertical-align:-0.12em;"></span>A German-Anglo-Indian born in Thailand<span style="display:inline-block;width:2px;height:0.85em;background:var(--red);margin:0 0.6em;vertical-align:-0.12em;"></span>My parents met on an Air India flight from Chicago to London<span style="display:inline-block;width:2px;height:0.85em;background:var(--red);margin:0 0.6em;vertical-align:-0.12em;"></span>What does it mean to be multicultural<span style="display:inline-block;width:2px;height:0.85em;background:var(--red);margin:0 0.6em;vertical-align:-0.12em;"></span>What does it mean to be Look Krueng<span style="display:inline-block;width:2px;height:0.85em;background:var(--red);margin:0 0.6em;vertical-align:-0.12em;"></span>Foreigners that succeed in Thailand<span style="display:inline-block;width:2px;height:0.85em;background:var(--red);margin:0 0.6em;vertical-align:-0.12em;"></span>Acts of kindness<span style="display:inline-block;width:2px;height:0.85em;background:var(--red);margin:0 0.6em;vertical-align:-0.12em;"></span>Gratitude<span style="display:inline-block;width:2px;height:0.85em;background:var(--red);margin:0 0.6em;vertical-align:-0.12em;"></span>Hierarchical society</div></a>        <a href="/article-06" style="display: block; padding: 2rem 0; border-top: 1px solid var(--rule); border-bottom: 1px solid var(--rule); text-decoration: none; color: inherit;">

diff --git a/css/style.css b/css/style.css
@@ -509,6 +509,15 @@ body .article-body ol li::before {
   color: var(--red); font-family: var(--font-mono); font-size: 0.9rem;
 }
 
+/* Item 4b — bullet lists = house format (red em-dash marker + hanging indent), lifted from
+   the inline rule in article-06 / article-07 (same values) so new articles need no inline CSS. */
+body .article-body ul { list-style: none; margin: 0 0 1.4rem 0; }
+body .article-body ul li {
+  font-size: 1rem; color: var(--ink-mid); line-height: 1.9;
+  margin-bottom: 1.4rem; padding-left: 1.6rem; position: relative;
+}
+body .article-body ul li::before { content: '\2014'; position: absolute; left: 0; color: var(--red); }
+
 /* Item 2 — emphasis / philosophy / invitation italic lines → Steel Blue */
 body .article-cta p,
 body .contact-intro,
